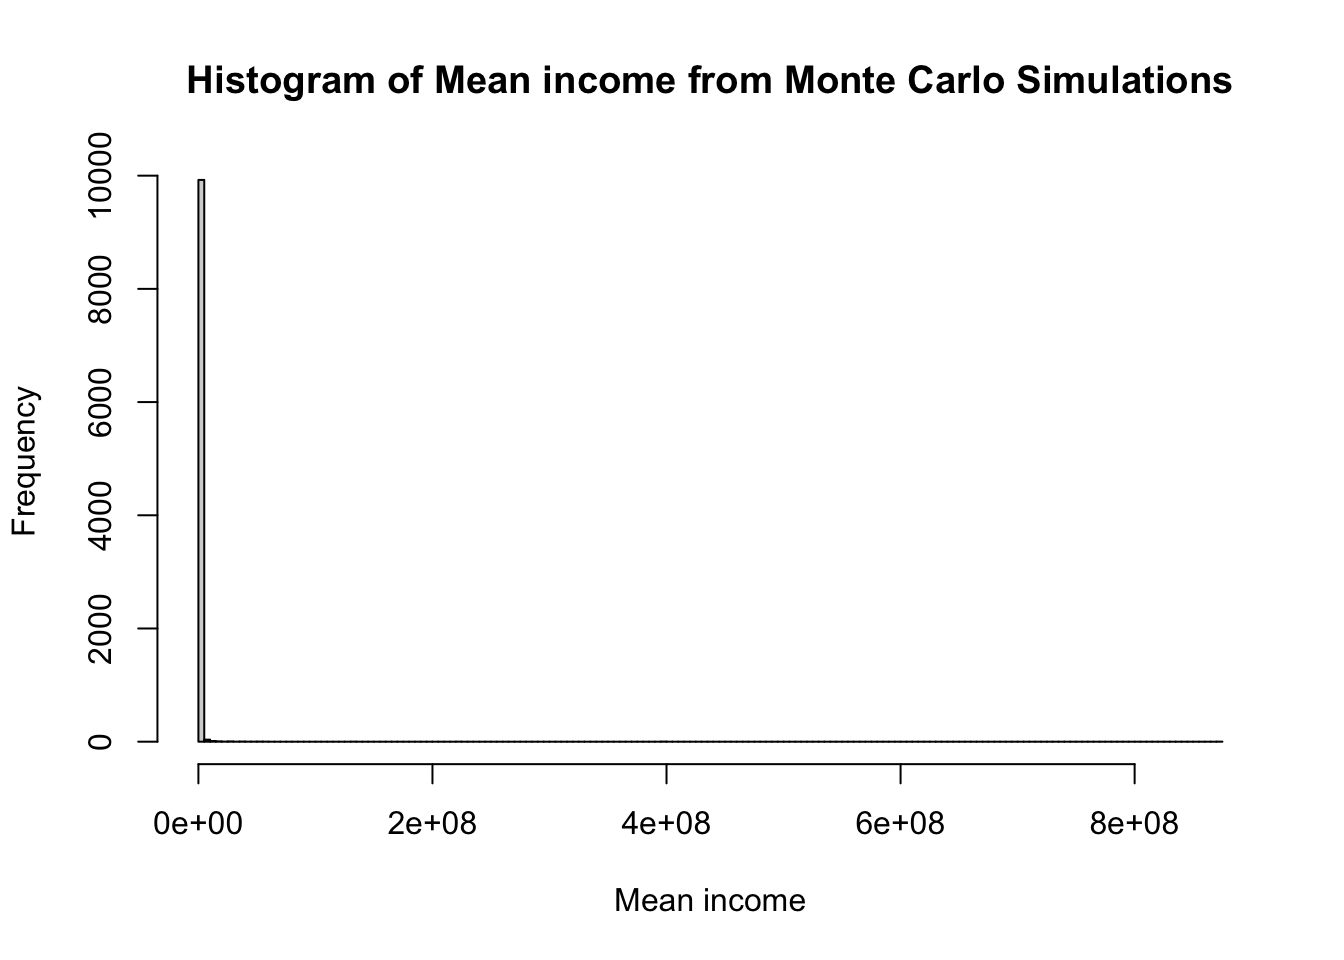
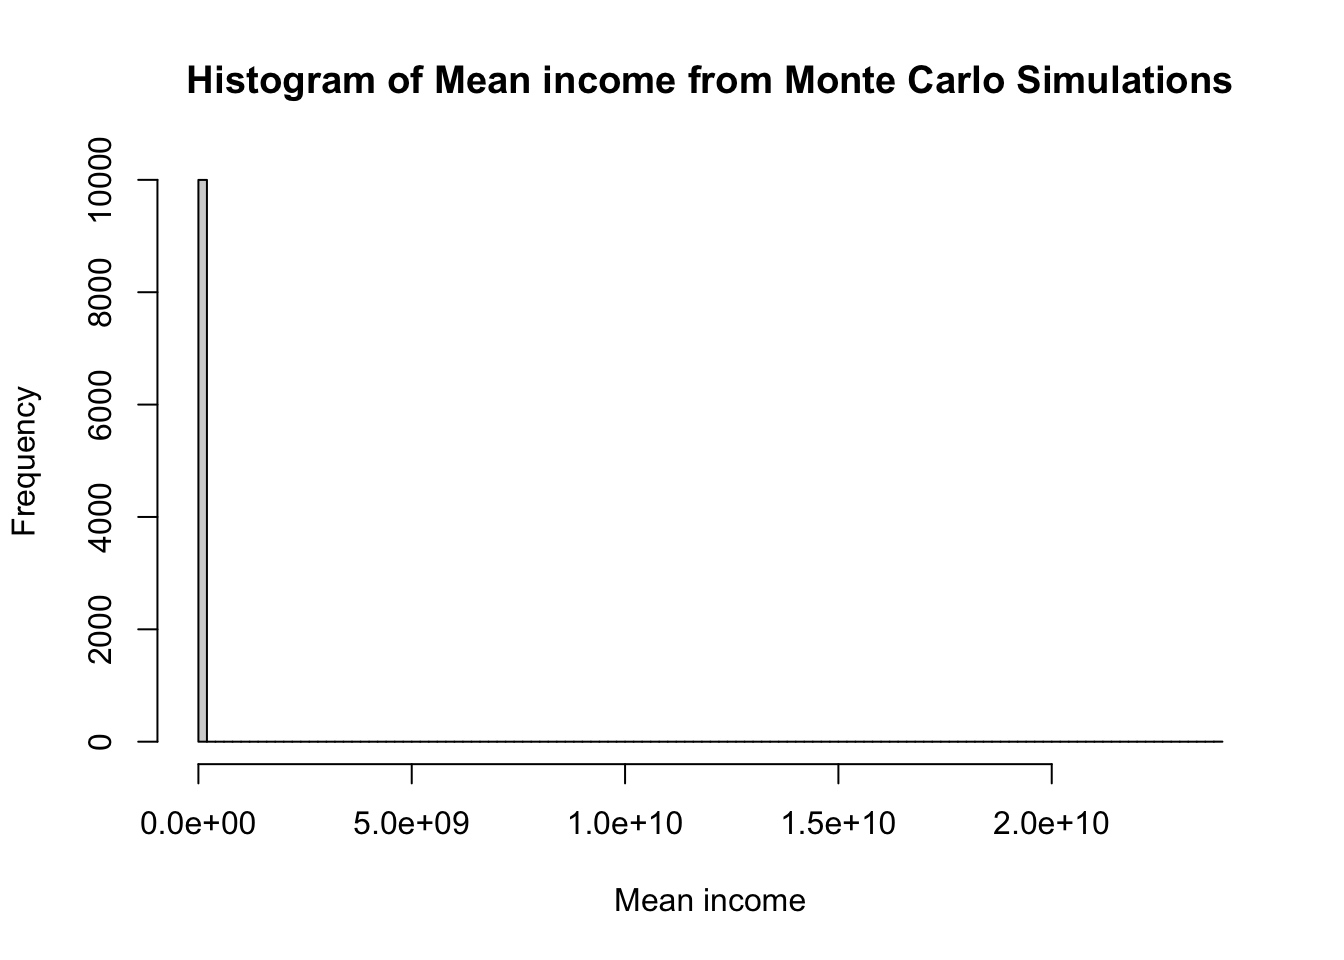
roses

diff --git a/docs/posts/Pink roses.html b/docs/posts/Pink roses.html
@@ -1833,19 +1833,7 @@ cookieconsent.run({
 <script type="text/javascript" src="//s3.amazonaws.com/downloads.mailchimp.com/js/mc-validate.js"></script><script type="text/javascript">(function($) {window.fnames = new Array(); window.ftypes = new Array();fnames[0]='EMAIL';ftypes[0]='email';fnames[1]='FNAME';ftypes[1]='text';fnames[2]='LNAME';ftypes[2]='text';fnames[3]='ADDRESS';ftypes[3]='address';fnames[4]='PHONE';ftypes[4]='phone';fnames[5]='BIRTHDAY';ftypes[5]='birthday';}(jQuery));var $mcj = jQuery.noConflict(true);</script></div>
 
 </div></div>
-        <nav id="TOC" role="doc-toc" class="toc-active">
-    <h2 id="toc-title">On this page</h2>
-   
-  <ul>
-  <li><a href="#aesthetic-appeal" id="toc-aesthetic-appeal" class="nav-link active" data-scroll-target="#aesthetic-appeal"><strong>Aesthetic Appeal</strong></a></li>
-  <li><a href="#technique" id="toc-technique" class="nav-link" data-scroll-target="#technique">Technique</a>
-  <ul class="collapse">
-  <li><a href="#control-and-precision" id="toc-control-and-precision" class="nav-link" data-scroll-target="#control-and-precision"><strong>Control and Precision</strong></a></li>
-  </ul></li>
-  <li><a href="#composition" id="toc-composition" class="nav-link" data-scroll-target="#composition"><strong>Composition</strong></a></li>
-  <li><a href="#concept-and-meaning" id="toc-concept-and-meaning" class="nav-link" data-scroll-target="#concept-and-meaning">Concept and meaning</a></li>
-  </ul>
-</nav>
+        
     </div>
 <!-- main -->
 <main class="content" id="quarto-document-content">
@@ -1893,91 +1881,11 @@ cookieconsent.run({
 <p>Work: <strong><em>Pink roses in a white pot</em></strong></p>
 <p>Artist: Parvathy Menon</p>
 <p>Medium: Water-colour</p>
-<section id="aesthetic-appeal" class="level2">
-<h2 class="anchored" data-anchor-id="aesthetic-appeal"><strong>Aesthetic Appeal</strong></h2>
-<ol type="1">
-<li><p><strong>Colour Palette</strong>: The soft pinks of the roses complement the light, creamy yellow background, giving the painting a gentle and soothing appearance. The green leaves add contrast, balancing the overall composition.</p></li>
-<li><p><strong>Technique</strong>: The watercolour style with the soft blending of colours, especially in the background, creates a textured effect. The roses are more defined, with delicate shading, which enhances their three-dimensional look. The artist has achieved a nice balance between detail and softness.</p></li>
-<li><p><strong>Composition</strong>: Centering the pot and flowers focus the viewer’s attention directly on the subject. The background has a textured yet minimalistic feel, which avoids distracting from the focal point of the painting.</p></li>
-<li><p><strong>Lighting</strong>: The light effect in the background, with rays gently illuminating the roses, adds a warm, almost glowing atmosphere to the scene, giving the painting a serene and uplifting mood.</p></li>
-</ol>
-<p>Overall, it’s a beautifully executed piece, with a pleasing balance of colour, light, and composition. The artist’s choice to keep the background soft helps to bring out the details in the flowers, making them the highlight of the piece.</p>
-</section>
-<section id="technique" class="level2">
-<h2 class="anchored" data-anchor-id="technique">Technique</h2>
-<section id="blending-and-washes" class="level4">
-<h4 class="anchored" data-anchor-id="blending-and-washes"><strong>Blending and Washes</strong>:</h4>
-<p>The artist has used soft washes for the background, creating a subtle gradient effect with a warm, light yellow hue. This is well executed, as the blending of colours feels smooth and controlled. The watercolour medium shines here with its fluidity, giving the background an almost ethereal quality.</p>
-</section>
-<section id="texturing" class="level4">
-<h4 class="anchored" data-anchor-id="texturing"><strong>Texturing</strong>:</h4>
-<p>The background also features some interesting texture, possibly achieved through the “wet-on-wet” technique or dabbing with a sponge. This adds depth and dimension without overwhelming the focal point.</p>
-</section>
-<section id="detail-in-the-roses" class="level4">
-<h4 class="anchored" data-anchor-id="detail-in-the-roses"><strong>Detail in the Roses</strong></h4>
-</section>
-<section id="layering" class="level4">
-<h4 class="anchored" data-anchor-id="layering"><strong>Layering</strong>:</h4>
-<p>The roses themselves are rendered with more defined details, which indicates the artist’s understanding of how to layer watercolour effectively. Watercolor can be tricky when it comes to building layers, as it can easily overwork or muddy the paper. However, in this case, the artist has successfully built up the forms of the roses through layered washes and strategic shading, giving them a natural, soft appearance.</p>
-</section>
-<section id="shading-and-volume" class="level4">
-<h4 class="anchored" data-anchor-id="shading-and-volume"><strong>Shading and Volume</strong></h4>
-<p>The shading on the petals creates a sense of depth and realism, enhancing the three-dimensional look of the flowers. The artist has carefully shaded the undersides of petals and added highlights, showing an understanding of how light interacts with organic forms.</p>
-</section>
-<section id="control-and-precision" class="level3">
-<h3 class="anchored" data-anchor-id="control-and-precision"><strong>Control and Precision</strong></h3>
-<section id="clean-edges" class="level4">
-<h4 class="anchored" data-anchor-id="clean-edges"><strong>Clean Edges</strong></h4>
-<p>The edges of the leaves, stems, and the pot are fairly crisp, which is difficult to achieve with watercolors since the paint tends to bleed. The control here suggests the artist has a good grasp of when to let the paint flow and when to contain it.</p>
-</section>
-<section id="white-space" class="level4">
-<h4 class="anchored" data-anchor-id="white-space"><strong>White Space</strong></h4>
-<p>The white pot, while simple, is well-executed with minimal colour, relying on shading to define its form. The artist uses the white of the paper for highlights, which is a common watercolour technique that requires forethought and restraint.</p>
-</section>
-</section>
-</section>
-<section id="composition" class="level2">
-<h2 class="anchored" data-anchor-id="composition"><strong>Composition</strong></h2>
-<section id="centre-focus" class="level4">
-<h4 class="anchored" data-anchor-id="centre-focus"><strong>Centre Focus</strong></h4>
-<p>The composition is straightforward, with the roses placed centrally in the frame. This works well because the simplicity of the arrangement allows the viewer to focus entirely on the flowers. The pot anchors the composition, giving it a grounded feel.</p>
-</section>
-<section id="balance-between-foreground-and-background" class="level4">
-<h4 class="anchored" data-anchor-id="balance-between-foreground-and-background"><strong>Balance Between Foreground and Background</strong></h4>
-<p>The artist has balanced the detailed foreground (roses and pot) with the soft, flowing background. The focus remains on the flowers, yet the background supports them by providing a sense of light and warmth without being overly detailed or distracting</p>
-</section>
-</section>
-<section id="concept-and-meaning" class="level2">
-<h2 class="anchored" data-anchor-id="concept-and-meaning">Concept and meaning</h2>
-<p>The watercolour artwork featuring pink roses in a white pot against a soft yellow background evokes a sense of tranquillity, beauty, and simplicity.</p>
-<p><strong>Pink Roses</strong> traditionally symbolize love, grace, and <strong><em>gratitude</em></strong>.</p>
-<blockquote class="blockquote">
-<p>The choice of pink rather than bold red suggests a subtler, more refined expression of these feelings, leaning toward peacefulness and tenderness rather than passion.</p>
-</blockquote>
-<p><strong>White Pot as a Vessel</strong> symbolize purity and simplicity. It contrasts with the vibrant colours of the roses, serving as a neutral base that allows the beauty of the flowers to take center stage.</p>
-<blockquote class="blockquote">
-<p>The pot, being a vessel, might also suggest that beauty and love need nurturing and care to grow.</p>
-</blockquote>
-<p><strong>Soft Yellow Background</strong> brings warmth and light into the scene. Yellow often symbolizes optimism, happiness, and energy. The subtle gradient in the background, with light beams suggesting illumination, <strong><em>representing a positive, uplifting atmosphere, possibly signifying hope, joy, and a bright future</em></strong>.</p>
-<div class="callout callout-style-default callout-important callout-titled">
-<div class="callout-header d-flex align-content-center">
-<div class="callout-icon-container">
-<i class="callout-icon"></i>
-</div>
-<div class="callout-title-container flex-fill">
-Overall message
-</div>
-</div>
-<div class="callout-body-container callout-body">
-<p>The overall composition seems to celebrate the simplicity and elegance of nature. The roses, a classic symbol of beauty, are placed in a humble, everyday object (the pot), reinforcing the idea that beauty can thrive in simple, unpretentious settings.</p>
-<p>The warm, glowing background adds a timeless, ethereal quality to the image, almost as if it’s capturing a moment of peace that could last forever.</p>
-</div>
-</div>
-<p>In essence,</p>
-<p><span style="color: blue"><strong><em>the work reminds the viewer to find beauty in ordinary moments and to nurture the things that bring light and warmth into their lives.</em></strong></span></p>
+<p>Tender pink roses in a creamy yellow background with dark green leaves create an atmosphere of calmness and serenity. The painting is in watorcolour. Gentle blending and shading brings out the flowers’ three-dimensional quality, making them the focal point, while the subtle lighting effect adds warmth and serenity to the scene.</p>
+<p>The overall composition seems to celebrate the simplicity and elegance of nature. The roses, a classic symbol of beauty, are placed in an ordinary, everyday object (the pot), reinforcing the idea that beauty can thrive in simple, unpretentious settings.</p>
+<p><code>The warm, glowing background adds a timeless, ethereal quality to the image, almost as if it's capturing a moment of peace that could last forever.</code></p>
 
 
-</section>
 
 <a onclick="window.scrollTo(0, 0); return false;" role="button" id="quarto-back-to-top"><i class="bi bi-arrow-up"></i> Back to top</a></main> <!-- /main -->
 <script id="quarto-html-after-body" type="application/javascript">

diff --git a/docs/posts.html b/docs/posts.html
@@ -2061,7 +2061,7 @@ Categories
 <span class="listing-categories">Monte Carlo simulation, economics</span>
 </td>
 </tr>
-<tr data-index="4" data-categories="YXJ0" data-listing-date-sort="1727202600000" data-listing-file-modified-sort="1727680937287" data-listing-date-modified-sort="NaN" data-listing-reading-time-sort="4" data-listing-word-count-sort="800" data-listing-title-sort="Pink roses in a white pot" data-listing-filename-sort="Pink roses.qmd">
+<tr data-index="4" data-categories="YXJ0" data-listing-date-sort="1727202600000" data-listing-file-modified-sort="1733846963572" data-listing-date-modified-sort="NaN" data-listing-reading-time-sort="1" data-listing-word-count-sort="129" data-listing-title-sort="Pink roses in a white pot" data-listing-filename-sort="Pink roses.qmd">
 <td>
 <span class="listing-date">Sep 25, 2024</span>
 </td>
@@ -2069,7 +2069,7 @@ Categories
 <a href="./posts/Pink roses.html" class="title listing-title">Pink roses in a white pot</a>
 </td>
 <td>
-<span class="listing-reading-time">4 min</span>
+<span class="listing-reading-time">1 min</span>
 </td>
 <td>
 <span class="listing-categories">art</span>

diff --git a/docs/posts/montecarlo.html b/docs/posts/montecarlo.html
@@ -2078,7 +2078,7 @@ Income distribution is not normal
 </details>
 <div class="cell-output cell-output-stdout">
 <pre><code>     Min.   1st Qu.    Median      Mean   3rd Qu.      Max. 
-   215207    296251    342787    742272    434146 873044354 </code></pre>
+2.153e+05 2.955e+05 3.433e+05 2.965e+06 4.345e+05 2.390e+10 </code></pre>
 </div>
 <details open="" class="code-fold">
 <summary>Code</summary>
@@ -2086,7 +2086,7 @@ Income distribution is not normal
 </details>
 <div class="cell-output cell-output-stdout">
 <pre><code>   Min. 1st Qu.  Median    Mean 3rd Qu.    Max. 
-  61803   64065   64509   64506   64926   67083 </code></pre>
+  62107   64062   64495   64500   64933   66941 </code></pre>
 </div>
 <details open="" class="code-fold">
 <summary>Code</summary>
@@ -2094,7 +2094,7 @@ Income distribution is not normal
 </details>
 <div class="cell-output cell-output-stdout">
 <pre><code>     Min.   1st Qu.    Median      Mean   3rd Qu.      Max. 
-9.563e+05 3.329e+06 5.580e+06 4.479e+07 1.185e+07 8.728e+10 </code></pre>
+9.803e+05 3.286e+06 5.672e+06 2.669e+08 1.183e+07 2.390e+12 </code></pre>
 </div>
 </div>
 </section>

diff --git a/docs/Biomedical/Research Methodology/wrangling.html b/docs/Biomedical/Research Methodology/wrangling.html
@@ -3375,9 +3375,9 @@ Record
 1:     1     1  child
 2:     2     1  child
 3:     3     1  child
-4:     4     0  child
+4:     4     1  child
 5:     5     0  child
-6:     6     1  child</code></pre>
+6:     6     0  child</code></pre>
 </div>
 </div>
 <section id="making-data-wide" class="level3">
@@ -3398,9 +3398,9 @@ Record
 1:     1   &lt;NA&gt;  child
 2:     2   &lt;NA&gt;  child
 3:     3   &lt;NA&gt;  child
-4:     4  child   &lt;NA&gt;
+4:     4   &lt;NA&gt;  child
 5:     5  child   &lt;NA&gt;
-6:     6   &lt;NA&gt;  child</code></pre>
+6:     6  child   &lt;NA&gt;</code></pre>
 </div>
 </div>
 
